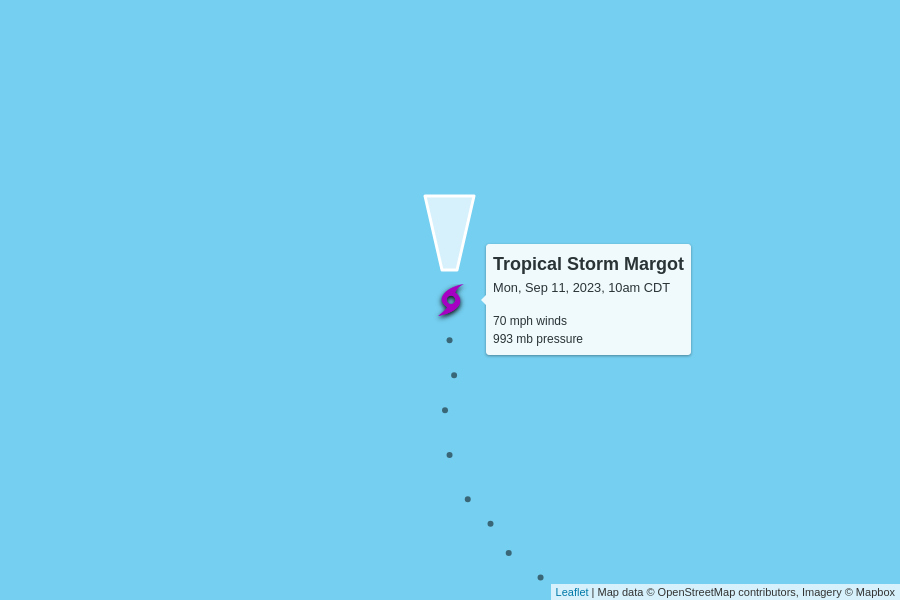
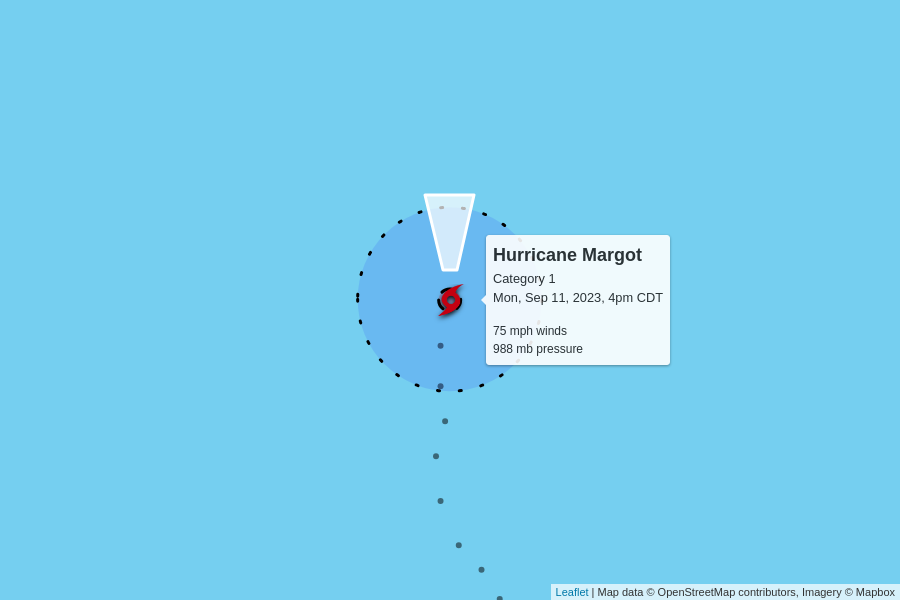
automatic update

diff --git a/docs/index.html b/docs/index.html
@@ -104,7 +104,7 @@
         <td colspan="6" class="storm category-3" >
           <h2>
             Hurricane Lee - Category 3
-            <p class="updated">last updated <span data-time>2023-09-11T15:00:00.000Z</span></p>
+            <p class="updated">last updated <span data-time>2023-09-11T21:00:00.000Z</span></p>
           </h2>
         </td>
       </tr>
@@ -119,12 +119,12 @@
       </tr>
       <tr>
         <td class="spacer"></td>
-        <td>120 mph<br>0 mph since last update</td>
-        <td>948 mb<br>-2 mb since last update</td>
+        <td>115 mph<br>-5 mph since last update</td>
+        <td>948 mb<br>0 mb since last update</td>
         <td>
-          8 mph to the northwest
+          7 mph to the west-northwest
           <br/>
-          <span style="display: inline-block; font-size: 1.5em; transform: rotate(310deg);">↑</span>
+          <span style="display: inline-block; font-size: 1.5em; transform: rotate(290deg);">↑</span>
         </td>
         <td><a href="https://raw.githubusercontent.com/mgwalker/atlantic-hurricanes/main/data/csv/AL132023.csv">AL132023.csv</a></td>
         <td><a href="https://www.nhc.noaa.gov/archive/2023/LEE.shtml?">NHC advisories</a></td>
@@ -145,10 +145,10 @@
       
 
       <tr>
-        <td colspan="6" class="storm category-0" >
+        <td colspan="6" class="storm category-1" >
           <h2>
-            Tropical Storm Margot
-            <p class="updated">last updated <span data-time>2023-09-11T15:00:00.000Z</span></p>
+            Hurricane Margot - Category 1
+            <p class="updated">last updated <span data-time>2023-09-11T21:00:00.000Z</span></p>
           </h2>
         </td>
       </tr>
@@ -163,10 +163,10 @@
       </tr>
       <tr>
         <td class="spacer"></td>
-        <td>70 mph<br>+5 mph since last update</td>
-        <td>993 mb<br>-3 mb since last update</td>
+        <td>75 mph<br>+5 mph since last update</td>
+        <td>988 mb<br>-5 mb since last update</td>
         <td>
-          10 mph to the north
+          12 mph to the north
           <br/>
           <span style="display: inline-block; font-size: 1.5em; transform: rotate(360deg);">↑</span>
         </td>
